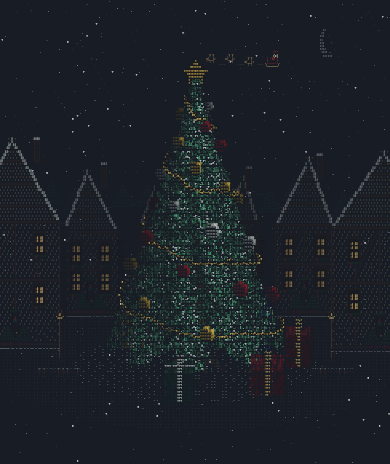
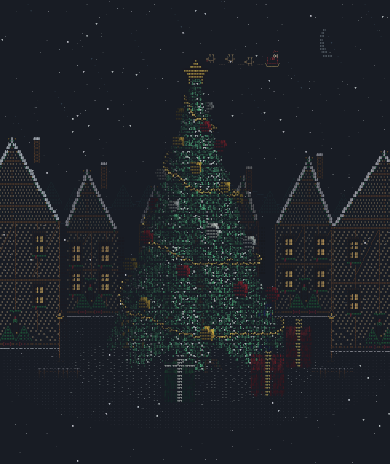
Strengthen village colors and document agent handoff

diff --git a/village.js b/village.js
@@ -3,9 +3,9 @@
 // Environment only. One bounded cache; the tree's model, palette and projection
 // remain owned by scene.js. Depths stay below -6 (Santa uses -5).
 const villagePalette = {
-  sky: [20, 37, 58], timber: [152, 99, 68], shadow: [80, 56, 46],
-  plaster: [232, 209, 173], window: [255, 208, 121], red: [202, 56, 72],
-  green: [40, 121, 76], gold: [239, 195, 111], snow: [228, 234, 240],
+  sky: [20, 37, 58], timber: [194, 117, 61], shadow: [80, 56, 46],
+  plaster: [244, 213, 166], window: [255, 208, 121], red: [239, 63, 77],
+  green: [52, 170, 91], gold: [250, 193, 83], snow: [238, 244, 250],
 };
 let villageCache = null;
 let villageBuilds = 0;
@@ -61,9 +61,12 @@ function buildVillage(view) {
   buildings.forEach((house, index) => {
     const cx = Math.round(w*house.u), top = house.top;
     const half = Math.max(8, Math.round(house.half*w/225));
-    const {roof, wall, shade, depth} = house;
+    const {roof, wall, depth} = house;
+    // Small glyphs lose coverage on phones: lift environment midtones only,
+    // while retaining deep recesses and the distance ordering of the houses.
+    const shade = Math.min(.94, house.shade * (mobile ? 1.25 : 1.12));
     const eave = top+roof, bottom = eave+wall;
-    const beam = tint(p.timber, shade*.85), dark = tint(p.shadow, shade*.72);
+    const beam = tint(p.timber, shade), dark = tint(p.shadow, house.shade*.72);
     const cream = tint(p.plaster, shade*.90), snow = tint(p.snow, shade);
     const ridge = cx + (index%2 ? 3 : -2);
     // A solid, shadowed side wall establishes volume beyond the front facade.
@@ -92,7 +95,7 @@ function buildVillage(view) {
       const vertical = local%Math.max(6, Math.round(half/2))===0;
       const diagonal = row<wall*.48 && (local+row)%Math.max(12,half)===0;
       if (!horizontal && !vertical && !diagonal && (local+row)%(mobile ? 3 : 2)!==0) continue;
-      point(x,y,horizontal ? "=" : vertical ? "|" : diagonal ? "/" : ":",
+      point(x,y,horizontal ? "=" : vertical ? "|" : diagonal ? "/" : mobile ? "=" : ":",
         horizontal || vertical || diagonal ? beam : cream,depth);
     }
     const windowWidth = half>=17 ? 7 : 5;

diff --git a/HANDOFF.md b/HANDOFF.md
@@ -1,0 +1,137 @@
+# Christmas Tree Village 인수인계
+
+업데이트: 2026-11-16 (한국 시간). 먼저 `git status`, `git log`, 원격 main을 확인한다.
+이 문서의 완료 기록과 현재 운영 배포 커밋은 별개다.
+
+## 프로젝트와 사용자 의도
+
+- 저장소: https://github.com/rbgks8617-w/Christmas-Tree-Ascii-Art
+- 운영: https://christmas-tree-ascii-art-server.onrender.com/
+- 관리자: 운영 주소의 `/admin`
+- Supabase 프로젝트: `ygswuhugtryamouynyja`
+- Render 서비스 ID: `srv-dbs02vjbc2fs73a6se3g`
+- 로컬: `C:/Users/rb778/Documents/ChatGPT/2학년 2학기 기말/christmas-tree`
+
+기존 회전 ASCII 트리는 절대 보존하고, 그 뒤를 유럽풍 크리스마스 마을로
+꾸미는 프로젝트다. 가장 최근 요청은 모바일에서 잘 보이도록 배경 색감을
+더 선명하게 만드는 것과 모든 작업의 커밋·푸시 및 인수인계 문서 작성이다.
+푸시 요청은 이번 변경의 푸시에 대한 승인이다. 미래 작업의 배포까지 자동 승인된 것은 아니다.
+
+## 완료된 작업
+
+- `bbbc419`: PostgreSQL 전환 준비, 자동 삭제 제거, SQLite 이관 도구.
+- `ccd9101`: 초기 마을·산타 추가. 트리 보존 비교의 고정 기준 커밋.
+- `09041a8`: 목조 건물 6채, 가랜드·리스·눈·창문·연기, 환경 조명, 캐싱.
+- `cc81b96`: 모바일 채팅 높이·키보드 대응, 안전 여백, 테스트와 보고서.
+- 현재 후속 변경: 목재·빨강·초록·금색 채도를 강화하고 모바일 배경 중간
+  밝기를 더 올림. 모바일 벽 문자를 `=`로 바꾸어 작은 글자의 면적 손실을 보완.
+  트리 모델·애니메이션·색상은 변경하지 않음.
+
+2026-11-16 작업 시작 시 GitHub main은 `cc81b96`이었다. 이후 커밋/푸시는
+Git 이력과 원격 조회 결과를 기준으로 판단한다. 과거 이 환경에서는 Windows
+Git credential-manager 실행 오류로 push가 실패했으며 사용자가 터미널에서
+직접 푸시했다. 성공 확인 없이 원격 반영이나 배포 완료를 보고하지 않는다.
+
+## 파일 지도
+
+| 파일 | 역할 / 주의점 |
+| --- | --- |
+| `geometry.js` | 65,632개 트리 모델 점. 수정 금지 |
+| `christmas_tree_3d.py` | 원본 트리 생성 및 터미널 버전. 수정 금지 |
+| `scene.js` | Canvas 2D 문자·RGB·깊이·불투명도·Bloom 버퍼, 30FPS 스케줄러 |
+| `village.js` | 환경 전용 팔레트, 건물 캐시, 창문·연기 애니메이션 |
+| `santa.js` | 기존 산타와 순록 3마리, 30초 주기 중 8초 비행 |
+| `styles.css`, `index.html` | 데스크톱 우측 채팅 / 모바일 하단 채팅 |
+| `chat-layout.js` | visualViewport 및 키보드 대응. 트리 Canvas 크기는 유지 |
+| `chat.js` | 같은 출처 `/api/chat`, 익명 메시지, 중복 재전송 보호 |
+| `music.js`, `assets/christmas.mp3` | 로컬 MP3 반복, 자동 재생 시도/사용자 터치 fallback, 볼륨 |
+| `server.py` | HTTP 서버, 정적 파일 허용 목록, 채팅, 범위 요청 오디오 |
+| `admin.py`, `admin.*` | 백엔드 비밀번호 검증·세션·관리자 UI와 삭제 |
+| `storage.py` | SQLite / psycopg PostgreSQL 어댑터 |
+| `schema.sql`, `migrate_sqlite.py` | 테이블/RLS 및 이전용 도구. 재실행은 별도 판단 |
+
+## 트리 보존과 렌더링
+
+트리 위치·크기·빛 계산을 건드리지 않는다. 환경 depth는 -6보다 작고
+산타는 -5, 트리가 앞에서 그려진다. 환경 Glow는 `bloom=4`이며 셀 내부로
+클리핑한다. 트리 쓰기가 해당 플래그를 대체한다. 기존 트리 Bloom 1/2/3
+계산은 유지한다. 전체 Canvas filter는 금지한다.
+
+건물은 dimensions/detail tier 기준 단일 캐시로 관리하며 창문 밝기와 연기만
+시간에 따라 바뀐다. 캐시를 프레임별로 쌓거나 새 외부 이미지/API를 추가하지 않는다.
+사용자의 참고 사진은 Tudor 목조 가게, 따뜻한 창문, 가랜드가 중앙 트리를 감싸는 구도다.
+
+## 채팅 UI와 모바일 문제
+
+삭제한 제목/소개/빈 목록 안내문을 다시 추가하지 않는다. 공개 UI는
+`익명 : 메시지`, 입력창과 보내기 버튼 중심이다.
+기존 잘림 원인: 320px 최소 높이 + 하단 여백이 화면을 초과하고 키보드 높이를
+반영하지 않음. 현재는 visualViewport 높이와 safe area로 패널을 계산하고
+폼은 shrink되지 않는다. 입력 중 가려질 때만 스크롤하고 pinch zoom은 막지 않는다.
+실제 iPhone 키보드와 가로 회전 검증은 아직 필요하다.
+
+## 운영 DB 현황
+
+사용자가 Supabase 스키마를 생성하고 Session pooler 연결을 설정했다.
+로컬 메시지 저장/재시작 유지 및 운영 Render 메시지가 Supabase 테이블에
+생기는 것을 사용자 확인으로 검증했다. 이전 시점 관리자 목록은 0개였다.
+원본 SQLite 전체 백업 또는 과거 삭제 메시지 복구를 완료했다고 주장하면 안 된다.
+
+- 운영은 `CHAT_STORAGE=postgres`, `DATABASE_URL` 사용. SQLite는 로컬 기본값.
+- 연결 호스트: `aws-1-ap-northeast-2.pooler.supabase.com:5432`.
+- 인증은 DB 비밀번호 기반. Supabase HTTP API Secret Key를 쓰지 않는다.
+- `CHAT_SECRET`, `CHAT_ADMIN_PASSWORD`는 기존 Render 값 유지.
+- 최신 100개를 일반 채팅에 표시, 관리자 조회는 최신 500개까지.
+  저장된 메시지는 나이나 개수 때문에 자동 삭제되지 않는다.
+- 관리자 전체 삭제는 확인 당시의 throughId 이하를 삭제한다. 새 메시지는 보존.
+- RLS 활성화, anon/authenticated 직접 접근 권한 없음. 브라우저 DB 연결 금지.
+- DB 오류는 503이며 저장 성공으로 표시하지 않는다.
+
+`DEPLOYMENT.md`는 최초 이전 절차 기록이다. 이미 연결된 운영 환경에서
+그 절차를 무조건 다시 실행하거나 SQLite로 되돌리지 않는다.
+
+## 실행 / 테스트
+
+```powershell
+cd "C:/Users/rb778/Documents/ChatGPT/2학년 2학기 기말/christmas-tree"
+python -m pip install -r requirements.txt
+python server.py
+```
+
+http://localhost:8000 에서 Ctrl+Shift+R. 기본 로컬 SQLite는 운영 DB와 별개다.
+운영 환경변수가 설정된 터미널에서 테스트 메시지를 보내면 운영 DB에 저장될 수 있다.
+비밀번호를 소스나 셸 명령 기록에 직접 쓰지 않는다.
+
+```text
+python -m unittest -v test_server.py
+node test_scene.cjs
+node test_ui.cjs
+node test_admin.cjs
+node test_chat_layout.cjs
+```
+
+픽셀 테스트: 별도 테스트 디렉터리에 `@napi-rs/canvas`를 설치하고 환경변수
+`CANVAS_MODULE`에 패키지 절대 경로를 지정한 뒤 `node test_visual.cjs` 실행.
+현재 PC 테스트 패키지 위치:
+`../village-reference-v2/node_modules/@napi-rs/canvas`.
+`VISUAL_OUTPUT`에 기존 디렉터리를 지정하면 비교 PNG를 생성한다.
+이 패키지는 개발 검증용이며 운영 의존성에 추가하지 않는다.
+
+기준 `ccd9101`과 3개 해상도, 10개 시점에서 분리된 트리+눈 RGBA 픽셀 및
+glyph/RGB/depth/opacity/bloom을 비교한다. 합성 장면의 트리 셀도 비교한다.
+`docs/visual-v2/REVIEW.md`에 비교 결과와 Native Canvas 측정 조건이 있다.
+
+## 남은 검증 / 배포 주의
+
+- 실제 Chrome / iPhone Safari, 소프트 키보드, 주소창 접힘, 큰 글씨,
+  가로 회전, 장시간 메모리와 실제 FPS를 확인해야 한다.
+- Node VM / Native Canvas는 브라우저가 아니다. 목표 30FPS 달성은 미검증.
+  기준선도 테스트 환경에서 33.3ms를 초과했다. 성능 수치는 조건과 함께 보고한다.
+- Render build: `pip install -r requirements.txt && python -m compileall -q server.py admin.py storage.py`
+- Start: `python server.py`.
+- `render.yaml`은 기존 서비스 설정을 자동으로 업데이트하는 보장이 없다.
+  운영 서비스는 과거 Node 런타임으로 만들어졌지만 Python 명령으로 동작했다.
+- 자동 배포 설정이 켜져 있어도 과거 새 커밋 배포가 시작되지 않은 경우가 있었다.
+  푸시 후 반드시 Render 배포 커밋과 Live 상태를 확인한다. 중복 배포하지 않는다.
+- 운영 접속 확인은 `/healthz`, `/api/chat`, 변경한 정적 파일로 한다.
+  키·쿠키·사용자 채팅 전문을 로그로 출력하지 않는다.

diff --git a/docs/visual-v2/REVIEW.md b/docs/visual-v2/REVIEW.md
@@ -50,13 +50,13 @@ These values are test-harness timings, NOT Chrome or physical-phone FPS.
 
 | Canvas | Baseline median / p95 | v2 median / p95 |
 | --- | --- | --- |
-| 320x381 | 60.37 / 99.71 ms | 65.24 / 106.85 ms |
-| 390x464 | 55.36 / 94.44 ms | 65.83 / 106.53 ms |
-| 756x900 | 55.70 / 95.77 ms | 66.62 / 108.82 ms |
+| 320x381 | 54.36 / 93.82 ms | 64.15 / 104.08 ms |
+| 390x464 | 53.84 / 93.76 ms | 64.43 / 104.12 ms |
+| 756x900 | 54.21 / 95.45 ms | 66.64 / 107.95 ms |
 
 The frame scheduler remains capped at 30 FPS. This harness exceeds the 33.3ms
 budget even on the baseline, so it does not establish achieved 30 FPS on a real
-device. Added median cost is 4.87-10.92ms in this harness. Browser profiling and
+device. Added median cost is 9.79-12.43ms in this harness. Browser profiling and
 long-duration real-device memory testing remain required before calling the
 performance goal verified.
 
@@ -92,4 +92,10 @@ but it is not a substitute for Chrome/Safari CSS layout and real iOS keyboards.
 Before deployment, inspect desktop Chrome, iPhone Safari, 320px width, portrait
 and landscape, keyboard open/closed, address-bar expansion, large text and zoom.
 Confirm composer visibility, readable messages, no horizontal scroll and music
-controls. Production data has not been changed and nothing has been pushed.
+controls. Production data has not been changed. See Git history and HANDOFF.md for push status.
+
+## 2026-11-16 color follow-up
+
+Environment timber/red/green/gold colors strengthened; mobile midtones lifted
+and facade glyph coverage increased. The tests and frames above were regenerated
+after this adjustment. Tree-only pixels still match the same protected baseline.

diff --git a/AGENTS.md b/AGENTS.md
@@ -1,0 +1,21 @@
+# 작업 시작 안내
+
+작업 전에 `HANDOFF.md`를 읽고 현재 코드·Git 상태를 확인한다.
+
+## 최우선 제약
+
+- 사용자의 별도 변경 요청 없이 `geometry.js`, `christmas_tree_3d.py`와
+  `scene.js`의 기존 트리 성장·회전·별·리본·색상·투영·깊이·Bloom을 수정하지 않는다.
+- 트리 크기·중심·선물 배치를 유지한다. Canvas 전체에 색상/밝기 필터를 적용하지 않는다.
+- 배경과 채팅 UI 작업에서 DB 스키마·운영 데이터·비밀키를 변경하지 않는다.
+- 비밀번호, DATABASE_URL 실제 값, 세션 쿠키를 코드·문서·로그에 기록하지 않는다.
+- 운영 배포나 데이터 삭제는 사용자 승인이 필요하다. 푸시도 자동 배포를 유발할 수 있다.
+  해당 작업에 대해 이미 승인받았다면 중복으로 묻지 않는다.
+- 사용자 변경은 보존한다. 강제 푸시나 원격 브랜치 덮어쓰기를 하지 않는다.
+
+## 검증
+
+관련 Node 테스트와 `python -m unittest -v test_server.py`를 실행한다.
+그래픽 변경은 `test_visual.cjs`로 트리 전용 픽셀 및 문자 버퍼가 기준선과
+동일한지 확인한다. 실행법과 제약은 `HANDOFF.md`에 있다.
+모의 DOM/Native Canvas 테스트를 실제 Chrome·iPhone Safari 검증으로 보고하지 않는다.

diff --git a/README.md b/README.md
@@ -1,5 +1,9 @@
 # ASCII Christmas Tree
 
+For ongoing development, read [HANDOFF.md](HANDOFF.md) and [AGENTS.md](AGENTS.md)
+first. They document the protected tree, current Supabase setup and pending
+real-device verification.
+
 Run the scene and shared anonymous chat together:
 
     python server.py
